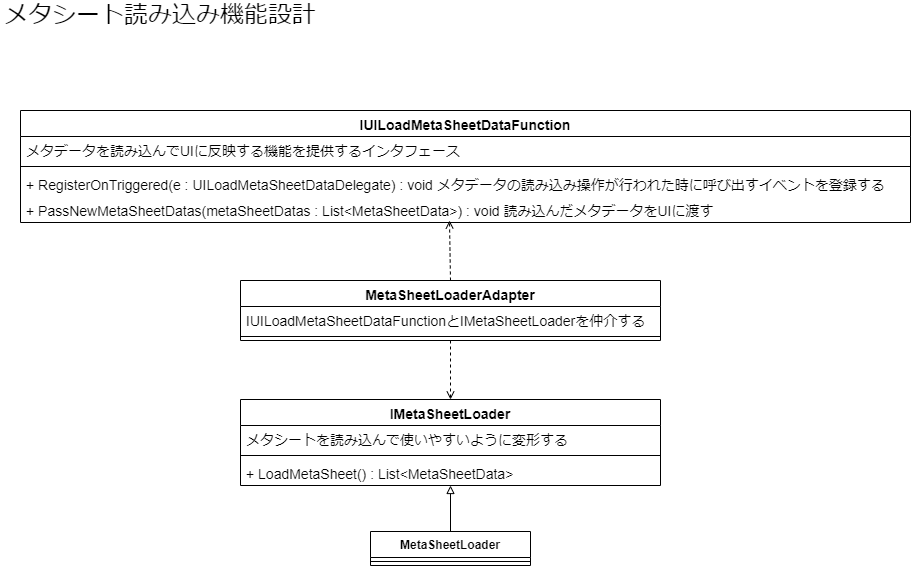
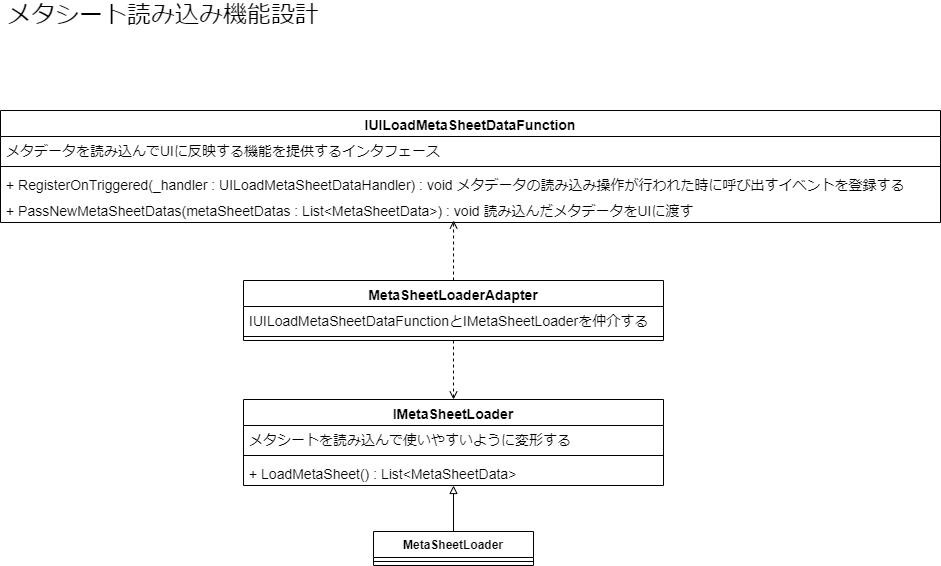
メタシートの読み込み操作時に呼び出されるデリゲートの名称を変更
~Handlerという名称の方が一般的かと思われるし、自分の他のプロジェクトでもその名称を使っているため揃えた

diff --git a/Editor/IUILoadMetaSheetDataFunction.cs b/Editor/IUILoadMetaSheetDataFunction.cs
@@ -5,7 +5,7 @@ namespace GoogleDriveDownloader
     /// <summary>
     /// UIからメタシートの読み込み操作が行われた際に呼び出されるイベントのデリゲート
     /// </summary>
-    public delegate void UILoadMetaSheetDataFunctionDelegate();
+    public delegate void UILoadMetaSheetDataFunctionHandler();
 
     /// <summary>
     /// メタシートのデータを読み込んでUIに反映する機能を提供するインタフェース
@@ -15,10 +15,10 @@ namespace GoogleDriveDownloader
         /// <summary>
         /// メタシートのデータの読み込み操作が行われた際に実行されるイベントを登録する
         /// </summary>
-        /// <param name="e">
+        /// <param name="_handler">
         /// メタシートのデータの読み込み操作が行われた際に実行されるイベント
         /// </param>
-        void RegisterOnTriggered(UILoadMetaSheetDataFunctionDelegate e);
+        void RegisterOnTriggered(UILoadMetaSheetDataFunctionHandler _handler);
 
         /// <summary>
         /// 読み込まれたメタシートのデータを受け取りUIに反映する
